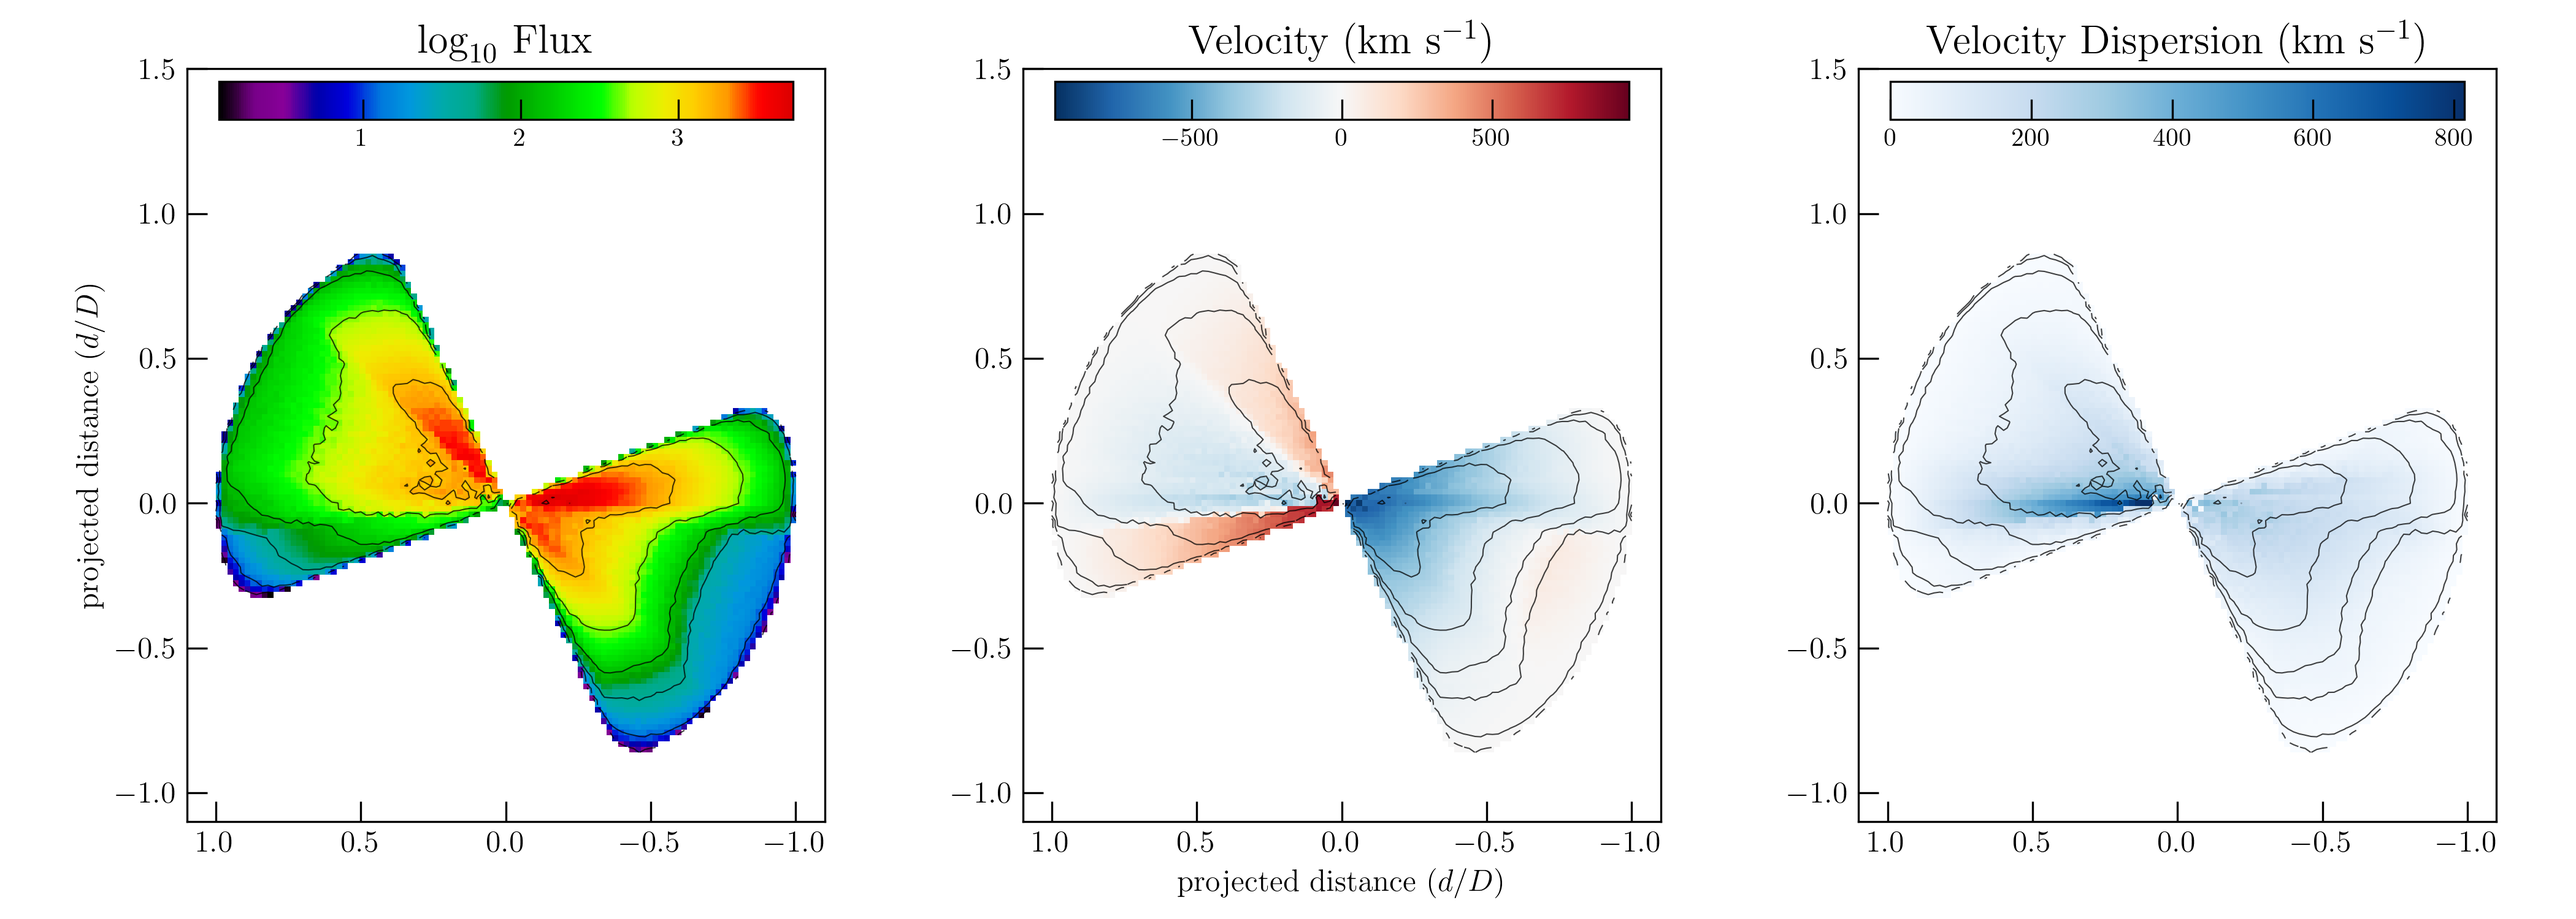
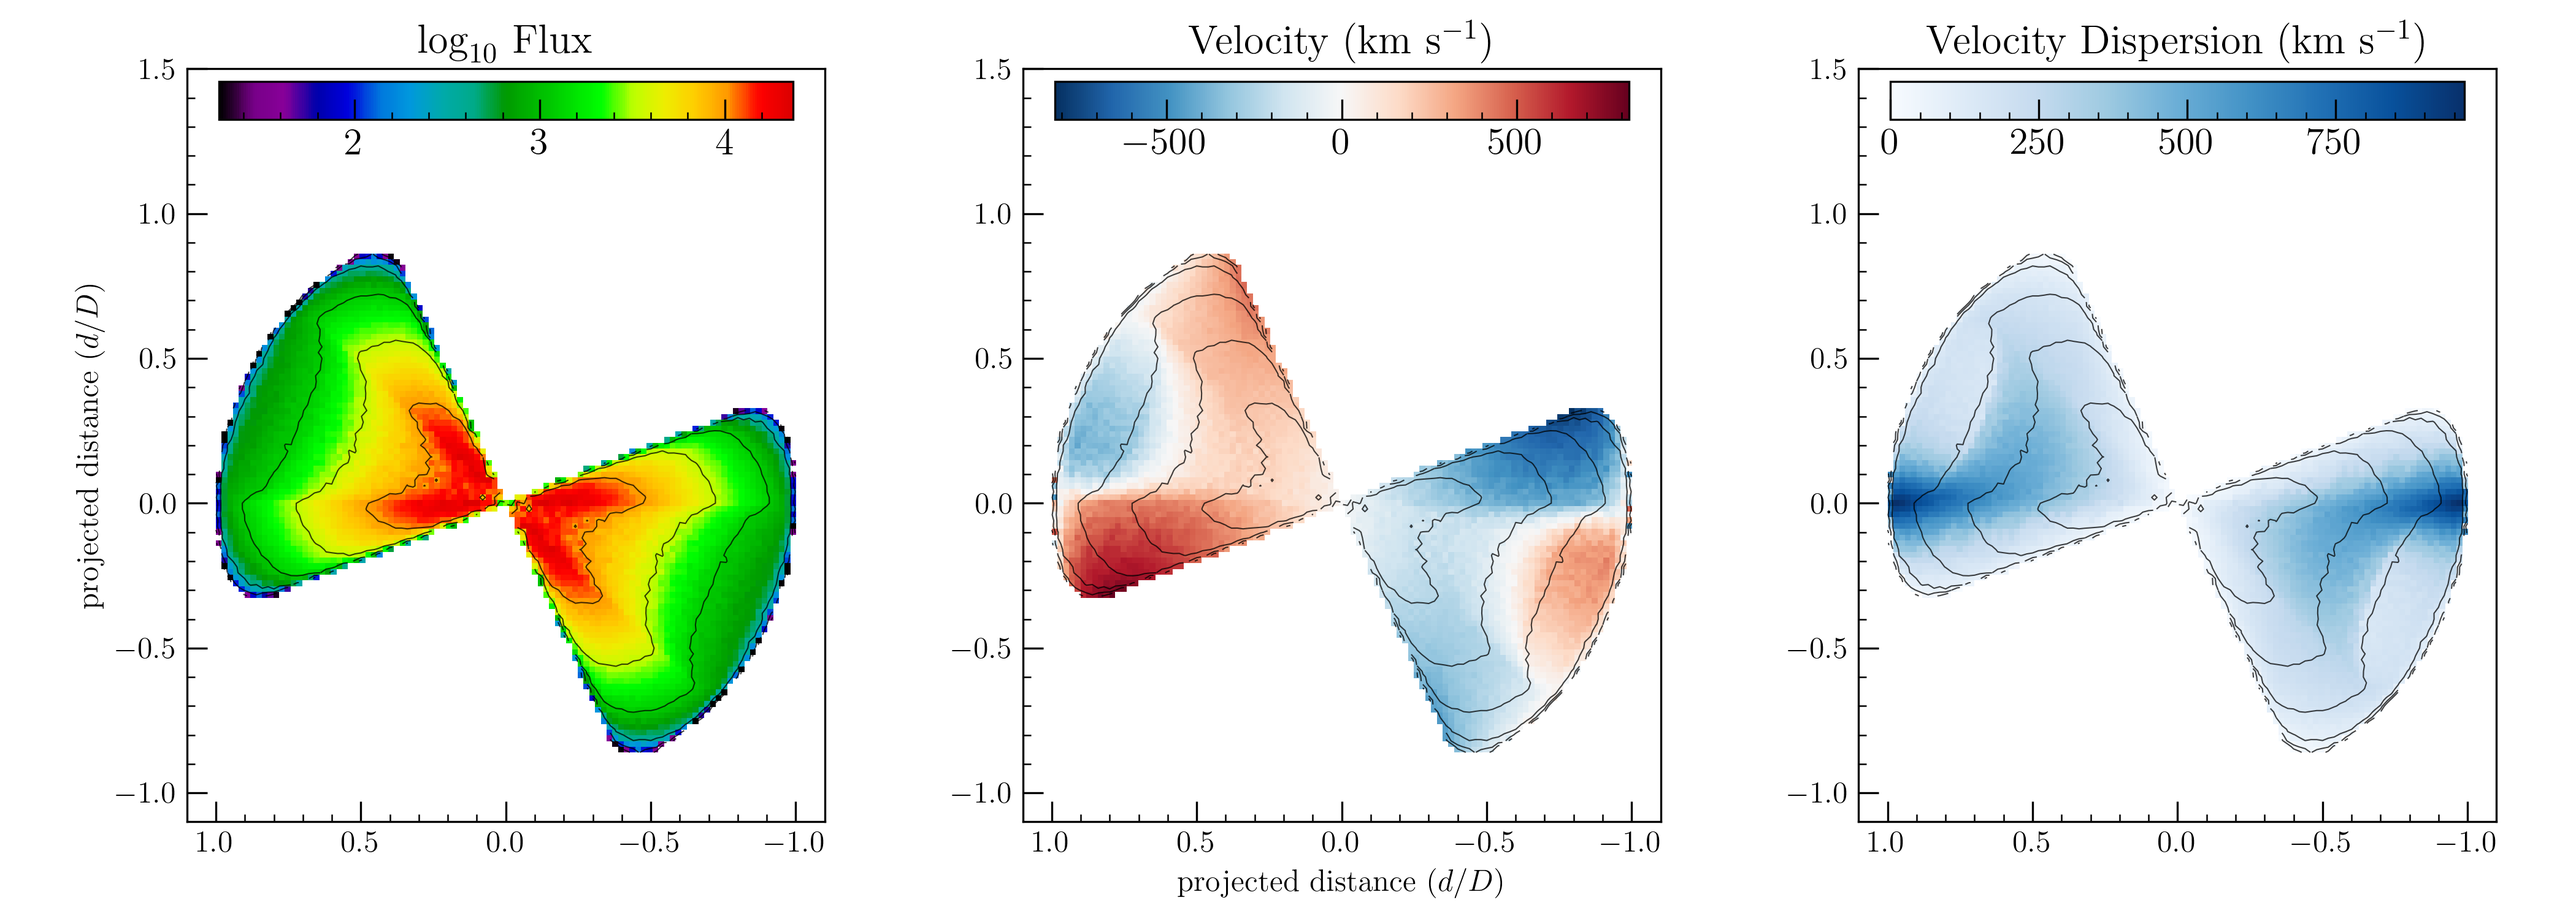
-update

diff --git a/core/muse_FitBiconical.py b/core/muse_FitBiconical.py
@@ -131,7 +131,7 @@ ax.plot(- x * R_vir / kpc, -v_c, '-r')
 
 
 # Velocity profile
-def v(index=2, v_max=800, i_deg=5, R_max=30):
+def v(index=2, v_max=800, i_deg=70, R_max=30):
     #
     # theta = np.arcsin(d / R)
     # P1 = - 2 * d * (np.tan(i_rad) * np.cos(theta_rad) - np.tan(i_rad) ** 2 * np.sin(theta_rad))
@@ -257,7 +257,7 @@ fmap, vmap, dmap, v_int, d_int = bicone.map_2d(xbgrid, ybgrid, zbgrid, fgrid, vg
 
 
 
-# # VVD
+# VVD
 # v1, v2 = v[0, :, :], v[1, :, :]
 # sigma1, sigma2 = sigma[0, :, :], sigma[1, :, :]
 # v1 = np.where(v2 != 0, v1, 0)
